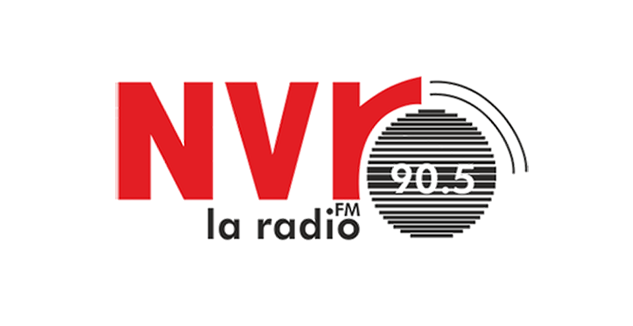
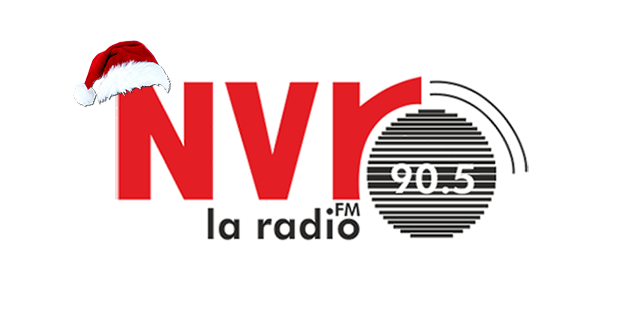
Radio_mobile (attr) y Navidad

Changed region(s): [[0.1201, 0.1227, 0.2701, 0.3374]]

diff --git a/radio.html b/radio.html
@@ -1,5 +1,5 @@
 <!DOCTYPE html>
-<html lang="en">
+<html lang="es">
 <head>
 	<meta charset="UTF-8">
 	<link rel="shortcut icon" href="img/favicon2.ico" />
@@ -7,6 +7,6 @@
 	<title>NVR "la radio" - FM 90.5</title>
 </head>
 <body>
-	<audio src="http://190.61.250.140:8012/;stream.nsv" preload="none" type="audio/mp3" controls="controls" autoplay></audio>
+	<audio src="http://190.61.250.140:8012/;stream.nsv" preload="none" type="audio/mp3" controls="controls" autoplay style="width: 3000px"></audio>
 </body>
 </html>

diff --git a/index.html b/index.html
@@ -1,5 +1,5 @@
 <!DOCTYPE html>
-<html lang="en">
+<html lang="es">
 
 <head>
 	

diff --git a/images/M_images/index.html b/images/M_images/index.html
@@ -1,0 +1,4 @@
+<html>
+<body bgcolor="#FFFFFF">
+</body>
+</html>

diff --git a/images/stories/food/index.html b/images/stories/food/index.html
@@ -1,0 +1,4 @@
+<html>
+<body bgcolor="#FFFFFF">
+</body>
+</html>

diff --git a/images/stories/fruit/index.html b/images/stories/fruit/index.html
@@ -1,0 +1,4 @@
+<html>
+<body bgcolor="#FFFFFF">
+</body>
+</html>

diff --git a/images/stories/index.html b/images/stories/index.html
@@ -1,0 +1,4 @@
+<html>
+<body bgcolor="#FFFFFF">
+</body>
+</html>

diff --git a/images/banners/index.html b/images/banners/index.html
@@ -1,0 +1,1 @@
+<html><body bgcolor="#FFFFFF"></body></html>

diff --git a/images/index.html b/images/index.html
@@ -1,0 +1,1 @@
+<html><body bgcolor="#FFFFFF"></body></html>

diff --git a/images/smilies/index.html b/images/smilies/index.html
@@ -1,0 +1,1 @@
+<html><body bgcolor="#FFFFFF"></body></html>

diff --git a/images/yootheme/index.html b/images/yootheme/index.html
@@ -1,0 +1,1 @@
+<html><body bgcolor="#FFFFFF"></body></html>

diff --git a/images/yootheme/yoogallery/index.html b/images/yootheme/yoogallery/index.html
@@ -1,0 +1,1 @@
+<html><body bgcolor="#FFFFFF"></body></html>

diff --git a/images/yootheme/yoosearch/index.html b/images/yootheme/yoosearch/index.html
@@ -1,0 +1,1 @@
+<html><body bgcolor="#FFFFFF"></body></html>
